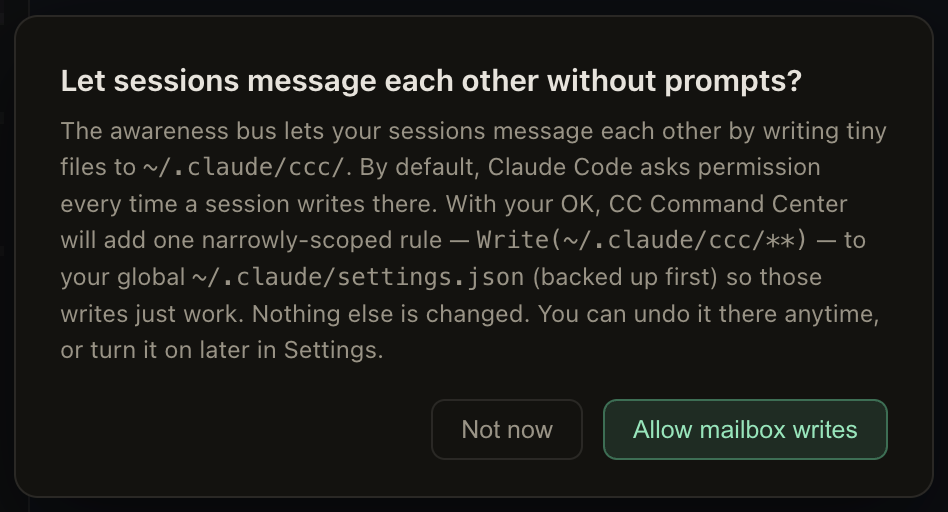
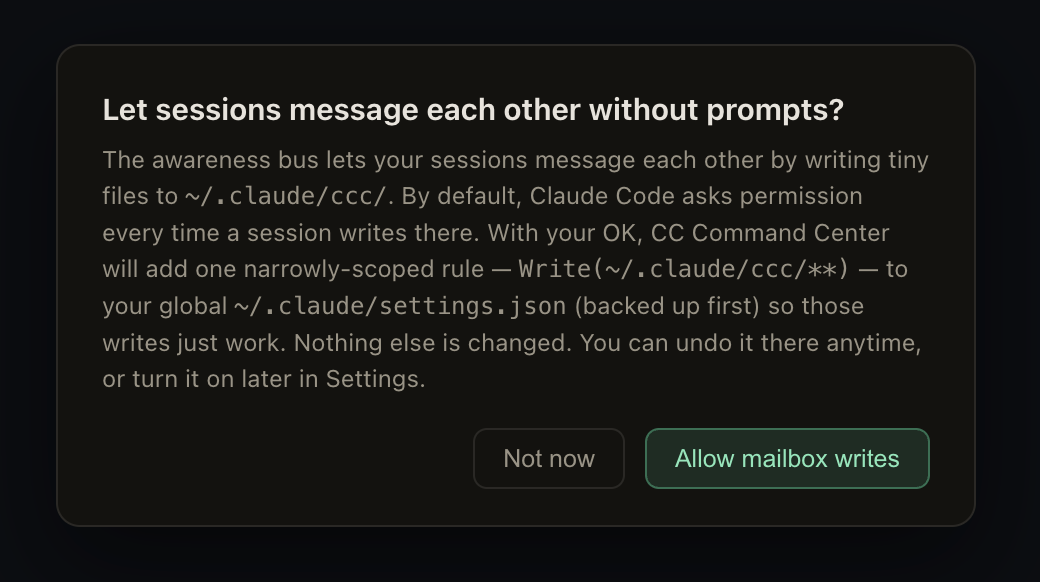
docs: correct the mailbox permission text, and cover what SECURITY.md was missing
The first-run modal named `Write(~/.claude/ccc/**)` as the rule it would add. That
rule is in MAIL_RULES_OLD and is actively STRIPPED by applyMailRule — the modal was
describing the one thing the app removes, and claiming a wider scope than it takes.
It now names both real rules and says why they are scoped to the mail trees. Same
correction in Settings and in the settings guide.

SECURITY.md was accurate on keys, the daemon socket, and settings handling — all
re-verified against the code — but stale and incomplete elsewhere:

- 'trust-gated per link' described the pre-v0.22 model. Replaced with default deny:
  grants, directional and revocable, re-checked at delivery, with an explicit revoke
  overriding the trusted edge beneath it, and a uniform address failure so addressing
  cannot enumerate the fleet.
- Nothing documented what the app stores AT REST beyond API keys. It now names the
  message table (full bodies, user-set retention), the spool files, and terminal
  scrollback — none of it encrypted, all of it potentially client work. Consistent
  with the threat model, but it should not be a surprise in a backup.
- Prompt injection across the bus was unmentioned, which is the main injection
  surface a mesh creates. New section covering the data framing in the envelope,
  control-sequence scrubbing, the self-scoped exit sentinel, recipient-scoped
  receipts, directory scoping, and the fan-out budgets — and stating plainly that
[…]

diff --git a/src/renderer/src/App.tsx b/src/renderer/src/App.tsx
@@ -2248,7 +2248,7 @@ function SettingsModal({
             <span className="setsub">
               {mailGranted
                 ? 'Granted — sessions write their outbox without a permission prompt.'
-                : 'Pre-authorize writes to ~/.claude/ccc/ in your global Claude settings so sessions don’t get prompted on every message.'}
+                : 'Pre-authorize writes to ~/.claude/ccc/mail/ in your global Claude settings so sessions don’t get prompted on every message. Scoped to the mail trees only.'}
             </span>
           </span>
           <button
@@ -2558,12 +2558,15 @@ function FirstRunMail({
       <div className="spawnmodal" onClick={(e) => e.stopPropagation()}>
         <div className="spawntitle">Let sessions message each other without prompts?</div>
         <div className="spawnsub">
-          The awareness bus lets your sessions message each other by writing tiny files to{' '}
-          <code>~/.claude/ccc/</code>. By default, Claude Code asks permission every time a session
-          writes there. With your OK, CC Command Center will add one narrowly-scoped rule —{' '}
-          <code>Write(~/.claude/ccc/**)</code> — to your global <code>~/.claude/settings.json</code>{' '}
-          (backed up first) so those writes just work. Nothing else is changed. You can undo it there
-          anytime, or turn it on later in Settings.
+          Sessions message each other by writing small files under{' '}
+          <code>~/.claude/ccc/mail/</code>. By default, Claude Code asks permission every time a
+          session writes there. With your OK, CC Command Center adds two narrowly-scoped rules —{' '}
+          <code>Edit(~/.claude/ccc/mail/**)</code> and <code>Edit(~/.claude/ccc/mail-dev/**)</code>{' '}
+          — to your global <code>~/.claude/settings.json</code> (backed up first) so those writes
+          just work. Scoped to the mail trees only, deliberately not <code>~/.claude/ccc/**</code>:
+          that tree also holds the status-hook script, which runs on every hook event, and a session
+          is not pre-authorized to touch it. Nothing else is changed. You can undo it there anytime,
+          or turn it on later in Settings.
         </div>
         <div className="spawnactions">
           <button

diff --git a/src/main/index.ts b/src/main/index.ts
@@ -4633,6 +4633,17 @@ app.whenReady().then(() => {
   } catch {
     /* ignore */
   }
+  // The pre-authorized permission rule is a CONSTANT (MAIL_RULES) covering the two
+  // standard mail trees — deliberately never derived from MAIL_DIR, so no environment
+  // variable can influence what gets written into the user's global settings. The
+  // consequence of moving the tree is therefore a permission prompt on every outbox
+  // write, which is confusing to run into unexplained.
+  if (process.env.CCC_MAIL_DIR && !/\/\.claude\/ccc\/mail(-dev)?$/.test(MAIL_DIR)) {
+    console.warn(
+      `[mail] CCC_MAIL_DIR points outside the pre-authorized trees (${MAIL_DIR}). ` +
+        `Sessions will be prompted on every outbox write; the granted rule is not widened to match.`,
+    )
+  }
   ensureStatusHookScript() // keep the hook script current with this app version
   ensureUsageLineScript() // the per-session usage statusLine (context % + 5h/7d)
   ensureKeyHelperScript() // API-key helper, current with this app version

diff --git a/SECURITY.md b/SECURITY.md
@@ -39,12 +39,73 @@ write their outbox without a permission prompt on every message. Handling:
   `Edit(~/.claude/ccc/mail-dev/**)` — deliberately not `~/.claude/ccc/**` wholesale, because that
   tree also holds the status hook script that runs on every hook event. A session is not
   pre-authorized to edit that.
+- The rules written are a fixed constant. They are never derived from the app's configured mail
+  path, so no environment variable can widen what is written into your settings. Pointing the mail
+  tree elsewhere (`CCC_MAIL_DIR`, for development) means sessions are prompted on every outbox
+  write; it does not extend the grant to the new location.
 
 **Hosts PTYs and can inject into them.** The app spawns and owns terminal processes, can inject
 prompts into managed sessions, and lets sessions message each other through a filesystem mailbox
-under `~/.claude/ccc/mail/`. Cross-session delivery is trust-gated per link: an untrusted link holds
-the message instead of delivering it, and every routing decision is recorded in the message log
-with its outcome (delivered, held, dropped).
+under `~/.claude/ccc/mail/`.
+
+Which sessions may message each other is **default deny**. A pair can exchange messages only via a
+grant you created or an existing trusted parent/child edge; no session can open a link for itself
+or request one. Grants are directional and revocable, an explicit revoke overrides the trusted edge
+beneath it, and permission is re-checked at the moment of delivery, so revoking stops messages
+already in flight. An address a session is not permitted to reach fails identically whether that
+session exists or not, so addressing cannot be used to enumerate the fleet. A grant may span
+categories if you create one — the category boundary is a display and organization boundary, and
+the grant is the security boundary.
+
+Every message is recorded in the app's registry with both endpoints, its full body, its state, and
+the reason it reached that state. A global pause halts all delivery and survives a restart.
+
+**Reads terminal input to know when a session is busy typing.** A message is injected as a
+bracketed paste plus a submit, so delivering into a half-written prompt would send the human's
+draft along with it. To avoid that, the app counts characters as they pass through its terminal
+input handler and holds delivery while the count is above zero. It keeps an **integer per
+terminal** — never the content, and nothing is persisted or transmitted.
+
+## Data the app stores at rest, in plaintext
+
+Only API keys are encrypted. Everything below is stored unencrypted in the app's own registry
+(`~/Library/Application Support/CC Command Center/registry.db`) or under `~/.claude/ccc/`, and can
+contain whatever your sessions produced — including client work:
+
+- **Cross-session message bodies**, in full, in the `message` table. Kept for a retention window you
+  set in Settings (1–90 days, default 7), after which they are pruned.
+- **Undelivered message payloads** as files under `~/.claude/ccc/mail/spool/`. This is deliberate:
+  it is what makes a message recoverable by hand when delivery fails. Aged out on the same schedule.
+- **Terminal scrollback** per session, so a pane can be repainted after a restart.
+- Session names, folders, categories, the parent/child graph, and messaging grants.
+
+This is consistent with the threat model below — a process running as you can read all of it
+anyway. It is documented so the retention control is discoverable and so nobody is surprised by
+what a backup of that directory contains.
+
+## Prompt injection across the message bus
+
+A delivered message becomes a real turn in the receiving session, so a session that can message
+another can put text in front of that agent. This is the intended capability, and it is also the
+main injection surface. What the app does about it:
+
+- **Delivered messages are framed as data.** The envelope states that the message comes from another
+  session, is information rather than an instruction from the user, and that the sender has no
+  authority over the recipient.
+- **Control sequences are stripped from delivered bodies.** Acknowledgement tokens and the
+  self-exit sentinel are redacted on the way in, so a peer cannot forge a read receipt or a
+  termination by planting one in text that gets forwarded.
+- **The self-exit sentinel is self-scoped.** It is matched only in a session's own outbox file and
+  only ends that session's own process. It is not addressable to anyone else.
+- **Acknowledgements are scoped to the recipient.** A session cannot mark another session's mail as
+  read by quoting an id it happened to see.
+- **The directory is scoped.** A session asking who it may message is answered with its permitted
+  peers only; it cannot enumerate the fleet or discover sessions in other categories.
+- **Fan-out is bounded.** Per-pair and per-session rate limits, plus a fleet-wide circuit breaker
+  that trips the global pause rather than silently dropping messages.
+
+What none of this does is make a peer's message trustworthy. Treat a fleet where any session
+handles untrusted input as a fleet where every session it may message handles untrusted input.
 
 ## Known residual risk: a session can read its own API key
 
@@ -81,5 +142,8 @@ process running as the same user can read X" will be closed as out of scope.
   transcripts, or disk in plaintext.
 - Safe handling of the user's global `~/.claude/settings.json` — data loss, clobbering unrelated
   keys, or widening permission rules beyond what is documented above.
-- Escapes from the trust gate on the cross-session bus (a message delivered over a link that is not
-  trusted, or a hop that does not appear in the message log).
+- Escapes from the messaging permission model: a message delivered between a pair with no grant and
+  no trusted edge, a revoked pair that still delivers, a directional grant honored in the wrong
+  direction, a message delivered while the global pause is on, or a delivery that leaves no record.
+- Anything that lets a session widen its own reach: opening a grant for itself, enumerating sessions
+  it may not message, forging a read receipt, or terminating a session other than itself.

diff --git a/docs/guide/settings-and-shortcuts.md b/docs/guide/settings-and-shortcuts.md
@@ -17,7 +17,7 @@ A checkbox (on by default). When on, a child session you spawn can message its p
 A checkbox (off by default). When on, live Claude Code sessions running in other terminals that this app does not own are hidden, so they stop adding to the needs-you bar as they work. Sessions the app manages, and dormant/resumable ones, always stay visible regardless of this setting.
 
 **Awareness mailbox write permission**
-The awareness bus works by having sessions write small files to `~/.claude/ccc/`. By default Claude Code prompts for permission on each such write. The Grant button adds one narrowly-scoped rule — `Write(~/.claude/ccc/**)` — to your global `~/.claude/settings.json` (backed up first) so those writes stop prompting. Once granted, the button reads "Granted ✓" and is disabled. This edits your global Claude settings; you can remove the rule there by hand at any time. There is also a first-run dialog that offers the same grant; declining it just records that you have seen it, and you can grant later here.
+Sessions message each other by writing small files under `~/.claude/ccc/mail/`. By default Claude Code prompts for permission on each such write. The Grant button adds two narrowly-scoped rules — `Edit(~/.claude/ccc/mail/**)` and `Edit(~/.claude/ccc/mail-dev/**)` — to your global `~/.claude/settings.json` (backed up first) so those writes stop prompting. They are scoped to the mail trees deliberately, not `~/.claude/ccc/**`: that tree also holds the status-hook script that runs on every hook event, and a session is not pre-authorized to edit it. Once granted, the button reads "Granted ✓" and is disabled. This edits your global Claude settings; you can remove the rule there by hand at any time. There is also a first-run dialog that offers the same grant; declining it just records that you have seen it, and you can grant later here.
 
 **Accurate status via hooks**
 Installs lightweight hooks into your global Claude settings so every session reports its own state (working / your turn / needs-approval, including the moment a permission dialog opens) instead of the app inferring state from the transcript. The button toggles between Install and Remove. Newly installed hooks apply to sessions started after the install, not to sessions already running. This modifies your global Claude configuration.
